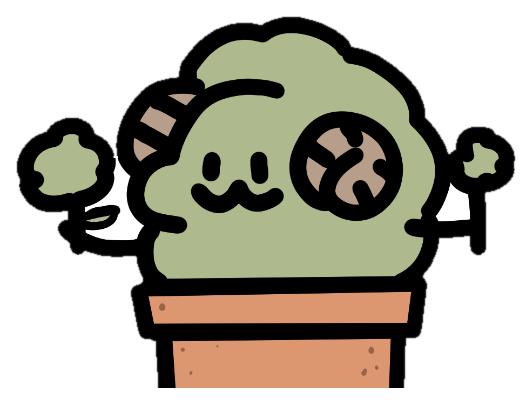
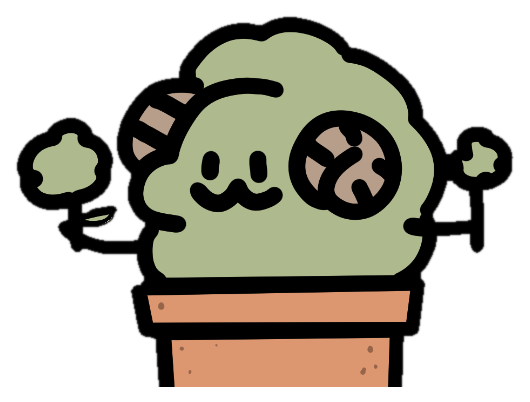
夥伴訓練里程碑不再 ×10 價（使用者定）；珍的是草重切去白袋；round7 測試 join-flight 接受 PNG；交接第十二節（公司電腦接手）

diff --git a/src/clicker-prestige.js b/src/clicker-prestige.js
@@ -58,7 +58,7 @@
   // 夥伴訓練價＝CC 建築：基礎價 200×base（回本 200 秒；CC 游標 150 秒、農場 137 秒、礦坑 255 秒），每級 ×1.15；效果在 economy.partnerMul（線性＋里程碑 ×2）
   const PARTNER_CAP = 200;
   // 里程碑那一級（→10／25／50／100／150／200）價 ×10：CC 的建築升級品是另外買的、約十倍建築價，這裡併進那一級
-  const trainCost = (L, id) => Math.ceil(200 * B.characters[id].base * 1.15 ** L * (E.PARTNER_MILESTONES.includes(L + 1) ? 10 : 1));
+  const trainCost = (L, id) => Math.ceil(200 * B.characters[id].base * 1.15 ** L);   // 2026-09-08 使用者定：里程碑那一級不再 ×10 價（只保留 ×2 倍率），免得 25 隻夥伴都卡在 49 級
   function train(state, id, now, max = false) {
     const s = E.settle(state, now).state;
     if (!s.collection[id]) throw new Error('尚未招募');

diff --git a/tools/test/clicker-browser.py b/tools/test/clicker-browser.py
@@ -978,7 +978,7 @@ def main():
             before = page.evaluate('Object.values(Clicker.state.collection).reduce((a,b)=>a+b,0)')
             page.evaluate('document.getElementById("collect").click();document.getElementById("collect").click()')
             if name == 'wish':
-                page.wait_for_selector('#join-flight svg')
+                page.wait_for_selector('#join-flight svg, #join-flight img')
                 page.screenshot(path=str(OUT / 'join-duplicate.png'))
             assert page.evaluate('Clicker.state.pending') is None
             assert page.evaluate('Object.values(Clicker.state.collection).reduce((a,b)=>a+b,0)') == before + 5

diff --git a/docs/clicker/HANDOFF-next-session.md b/docs/clicker/HANDOFF-next-session.md
@@ -79,6 +79,17 @@ cd "$REPO" && git worktree remove --force "$T"; git worktree prune; git branch -
 - `tools/sim/clicker-boss.js` 補三～六場景的王與「滿養」情境；`REPORT-astra-impl-round10~13.md` 未寫（commit 訊息有摘要）。
 - 使用者實玩回饋待收：王的手感、開包節奏、換桌布時機、印記是否太大方。
 
+## 十二、2026-09-08 凌晨收尾：第十八輪＋訓練里程碑不加價（公司電腦接手從這裡開始）
+
+**接手第一步**：`git fetch && git pull --ff-only`（家機 main 已 push），`npm test`（142 例），`PYTHONIOENCODING=utf-8 python tools/test/clicker-round18.py`。
+
+- 第十八輪（報告 `REPORT-astra-impl-round18.md`）：卡冊標頭「平均訓練」鍵（`clicker-prestige.js trainAll`：每輪依等級低→高各買一級、買不起跳過、一次 commit）；`applyZoom` 縮放比向下取 0.25 倍數（下限 0.75）＋ border-image 寬度改偶數 → 9-slice 角落缺塊消失，四種解析度放大圖 `_art/out/r18-corner-*.png`。素材本身的淡色切片縫線仍在，要徹底消除得改素材或改 CSS 畫按鈕。
+- **使用者定**：夥伴訓練里程碑那一級**不再 ×10 價**（只保留 10/25/50/100/150/200 的 ×2 倍率）；`trainCost = ceil(200×base×1.15^L)`。模擬器跑過（14 天到 fridge#112）。
+- `card-zhencao.png` 重切：這張沒有白色部件，所有近白（含手臂與身體間的封閉白袋）都當背景去掉。
+- 瀏覽器測試改的期望值：round7 `#join-flight svg` → 也接受 `img`（新招募的可能是 PNG 角色）。
+- 待做／待收：徽章 17 張底圖、屋頂星空專屬素材（換圖要拆 hue-rotate）、冷凍包五狀態；使用者實玩回饋（轉彩 30%、神話 0.5%、零食小偷節奏、平均訓練手感）；「留聲機無法購買」仍未重現。
+- 派工原則（給下一個 session）：簡報開頭列「不要動的旗標」（`WISH_TELEGRAPH=false`、`T`／`EASE`、點空白關面板、卡冊箭頭、轉彩 30%）；Astra 跑完先 `grep "??"`、`npm test`、再跑該輪 `clicker-roundNN.py`；瀏覽器套件裡 `gacha-card.css` 與 HEAD 比對那條要在 commit 後才會綠。
+
 ## 十一、2026-09-08：第十七輪（冰箱終點、新卡 2.0、印記四項、音量面板、零食小偷）＋第十八輪派工
 
 - 第十七輪已 commit `f91d05b`（報告 `REPORT-astra-impl-round17.md`，驗收 `python tools/test/clicker-round17.py` 兩種寬度）。冰箱固定 100 包可挑戰、王勝＝六站全破不切場景；新卡 膠頭燃額（傳說、裝備時攻擊力 ×1.5 的唯一 trait）、警狗（傳說）、哥不狗（史詩）、珍珍JPG（**精良**，使用者定）；卡冊依稀有度低→高；電動手指上限 10（印記 finger14 → 14）；印記商店多 bossTime／offline15／daily2；零食小偷（monster-0/1/2 → 後院／便利商店／工廠）。

diff --git a/docs/clicker/DESIGN-balance-v2.md b/docs/clicker/DESIGN-balance-v2.md
@@ -18,7 +18,7 @@
 
 | 項目 | 新規則 | CC 對應 |
 |---|---|---|
-| 夥伴訓練（`clicker-prestige.js trainCost`、`economy.partnerMul`） | 每級被動 **+1 倍**（線性，L 級 = ×(1+L)）；價 `200 × base × 1.15^L`；**10／25／50／100／150／200 級各 ×2**，到里程碑那一級價 ×10；上限 200 | 建築 ×1.15、線性產出、升級品 ×2 約十倍建築價 |
+| 夥伴訓練（`clicker-prestige.js trainCost`、`economy.partnerMul`） | 每級被動 **+1 倍**（線性，L 級 = ×(1+L)）；價 `200 × base × 1.15^L`；**10／25／50／100／150／200 級各 ×2**，里程碑那一級**不加價**（2026-09-08 使用者定，原 ×10 會讓 25 隻夥伴都卡在 49 級）；上限 200 | 建築 ×1.15、線性產出、升級品 ×2 約十倍建築價 |
 | 全隊訓練（`economy.trainingCost`／`individual`） | 每級 **×1.25**，價 `2500 × 2.5^t` | kitten／全域升級品 |
 | 攻擊力（原手勁）（`clickCost`／`rates.D`） | 固定部分 `1.15^L`（原 1.18）、價 `10 × 1.35^L`（原 1.30）；每點仍加 5% 每秒 | 滑鼠升級 |
 | 招募價（`economy.drawCost(s,count)`） | **釘在現在每秒被動收益**：單抽 30 秒、五連 135 秒的 P，下限 150／700 | — （CC 沒抽卡；這是「永遠抽得起」的保證） |
